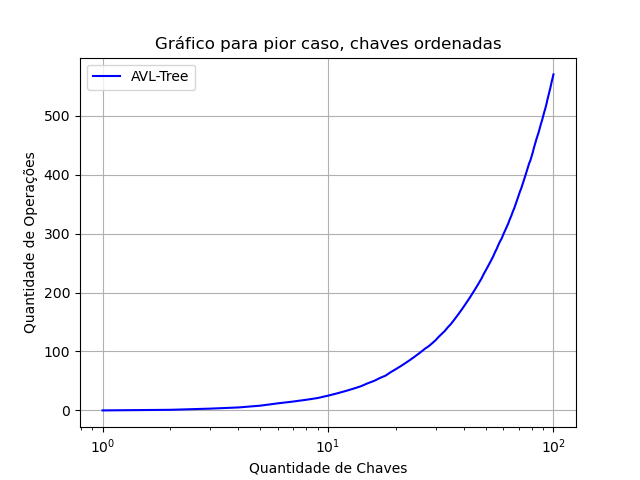
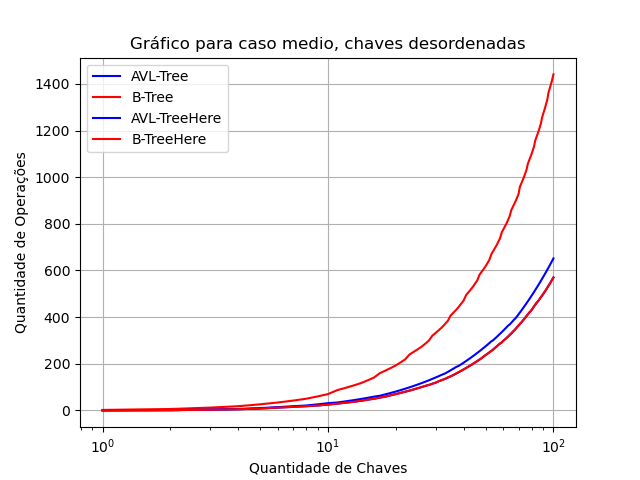
.

diff --git a/avl_btree/scriptsPython/plotagem.py b/avl_btree/scriptsPython/plotagem.py
@@ -5,6 +5,8 @@ from typing import Dict
 
 
 def plotaGraficoPiorCaso():
+    #fig, axs = plt.subplots(2)
+
     pior_caso_avl = open(
         'C:\\Users\\pires\\Documents\\GitHub\\PRA\\avl_btree\\outputs\\pior_caso_out_avl.txt', 'r')
     pior_caso_btree = open(
@@ -26,26 +28,27 @@ def plotaGraficoPiorCaso():
         y_btree.append(int(linha))
         cont_chaves += 1
 
+    return x_avl, y_avl, x_btree, y_btree
     # plotando AVL
     #plt.scatter(x_avl, y_avl, color='blue')
-    plt.plot(x_avl, y_avl, color='blue', label='AVL-Tree')
+    #axs[0].plt.plot(x_avl, y_avl, color='blue', label='AVL-Tree')
 
     # plotando BTREE
     #plt.scatter(x_btree, y_btree, color='red')
-    plt.plot(x_btree, y_btree, color='red', label='B-Tree')
+    #axs[0].plt.plot(x_btree, y_btree, color='red', label='B-Tree')
 
-    plt.title('Gráfico para pior caso, chaves ordenadas')
+    #axs[0].plt.title('Gráfico para pior caso, chaves ordenadas')
     # Eixo X
-    plt.xlabel('Quantidade de Chaves')
+    #axs[0].plt.xlabel('Quantidade de Chaves')
     # Eixo Y
-    plt.ylabel('Quantidade de Operações')
+    #axs[0].plt.ylabel('Quantidade de Operações')
 
-    plt.grid(True)
-    plt.legend()
-    plt.xscale('log')
+    # axs[0].plt.grid(True)
+    # axs[0].plt.legend()
+    # axs[0].plt.xscale('log')
     # plt.show()
-    plt.savefig(
-        "C:\\Users\\pires\\Documents\\GitHub\\PRA\\avl_btree\\graficos\\pior_caso.png")
+    # plt.savefig(
+    #    "C:\\Users\\pires\\Documents\\GitHub\\PRA\\avl_btree\\graficos\\pior_caso.png")
 
 
 def plotaGraficoMedioCaso():
@@ -53,38 +56,43 @@ def plotaGraficoMedioCaso():
     medio_caso_avl = open(
         'C:\\Users\\pires\\Documents\\GitHub\\PRA\\avl_btree\\outputs\\medio_caso_out_avl.txt', 'r')
 
-    # Cria dicionario
-    data_lines_avl = medio_caso_avl.readlines()
-    data = set_data(data_lines_avl)
-    data = preenche_data(data_lines_avl, data)
+    medio_caso_btree = open(
+        'C:\\Users\\pires\\Documents\\GitHub\\PRA\\avl_btree\\outputs\\medio_caso_out_btree.txt', 'r')
 
+    # Cria dicionarios
+    # avl
+    data_lines_avl = medio_caso_avl.readlines()
+    data_avl = set_data(data_lines_avl)
+    data_avl = preenche_data(data_lines_avl, data_avl)
+    # btree
+    data_lines_btree = medio_caso_btree.readlines()
+    data_btree = set_data(data_lines_btree)
+    data_btree = preenche_data(data_lines_btree, data_btree)
+
+    # AVL
     x_avl = [j+1 for j in range(100)]
     y_avl = []
     media = 0
     for i in range(100):
-        for key in data.keys():
-            valor = int(data[key][i])
+        for key in data_avl.keys():
+            valor = int(data_avl[key][i])
             media += valor
         y_avl.append(int(media/10))
         media = 0
 
-    # plotando AVL
-    plt.plot(x_avl, y_avl, color='blue', label='AVL-Tree')
-    # plotando BTREE
-    #plt.plot(x_btree, y_btree, color='red', label='B-Tree')
+    # BTREE
+    x_btree = [j+1 for j in range(100)]
+    y_btree = []
+    media = 0
+    for i in range(100):
+        for key in data_btree.keys():
+            valor = int(data_btree[key][i])
+            media += valor
+        y_btree.append(int(media/10))
+        media = 0
 
-    plt.title('Gráfico para caso medio, chaves desordenadas')
-    # Eixo X
-    plt.xlabel('Quantidade de Chaves')
-    # Eixo Y
-    plt.ylabel('Quantidade de Operações')
-
-    plt.grid(True)
-    plt.legend()
-    plt.xscale('log')
-    # plt.show()
-    plt.savefig(
-        "C:\\Users\\pires\\Documents\\GitHub\\PRA\\avl_btree\\graficos\\medio_caso.png")
+    return x_avl, y_avl, x_btree, y_btree
+    
 
 
 def set_data(data_lines_avl):
@@ -106,5 +114,33 @@ def preenche_data(data_lines_avl, data):
 
 
 if __name__ == "__main__":
-    # plotaGraficoPiorCaso()
-    plotaGraficoMedioCaso()
+    x_avl_p, y_avl_p, x_btree_p, y_btree_p = plotaGraficoPiorCaso()
+    x_avl_m, y_avl_m, x_btree_m, y_btree_m = plotaGraficoMedioCaso()
+
+    figure = plt.figure(figsize=(10, 10), dpi=80)
+
+    sub_piorcaso = figure.add_subplot(211)
+    sub_mediocaso = figure.add_subplot(212)
+
+    sub_piorcaso.set_title("Pior Caso")
+    sub_piorcaso.set_xlabel("Qtd Chaves")
+    sub_piorcaso.set_ylabel("Qtd Operações")
+
+    sub_mediocaso.set_title("Caso Medio")
+    sub_mediocaso.set_xlabel("Qtd Chaves")
+    sub_mediocaso.set_ylabel("Qtd Operações")
+
+    sub_piorcaso.plot(x_avl_p, y_avl_p, label="AVL")
+    sub_piorcaso.plot(x_btree_p, y_btree_p, label="BTree")
+
+    sub_mediocaso.plot(x_avl_m, y_avl_m, label="AVL")
+    sub_mediocaso.plot(x_btree_m, y_btree_m, label="BTree")
+
+    sub_piorcaso.legend()
+    sub_mediocaso.legend()
+
+    sub_piorcaso.set_xscale('log')
+    sub_mediocaso.set_xscale('log')
+    # plt.savefig("C:\\Users\\pires\\Documents\\GitHub\\PRA\\avl_btree\\graficos\\analise.png")
+
+    plt.show()
